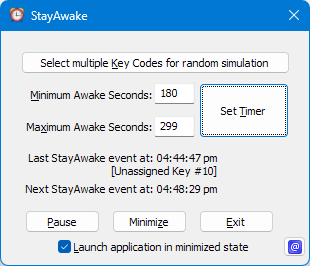
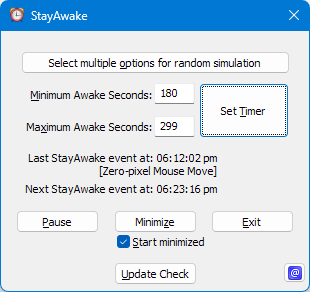
Updating images and documentation for v1.5.0.0 Release

diff --git a/README.md b/README.md
@@ -10,24 +10,37 @@
  &nbsp;&nbsp;&nbsp;&nbsp;&nbsp;
 <a title="OSSign - Code Signing for Open Source" href="https://www.ossign.org"><img style="width:100px; height:86px;" src="images/OSSign.png"/></a>
 
+![StayAwake UI](images/StayAwakeApp.png) &nbsp; ![Input Options UI](images/StayAwakeInputOptions.png)
 
-[Current Version: 1.3.0.0](https://github.com/shriprem/StayAwake/blob/main/VersionHistory.md)
+[Current Version: 1.5.0.0](VersionHistory.md)
 
 StayAwake is a simple utility that enables you to maintain an _Active_ status on Microsoft Teams (and perhaps other messaging applications such as Slack and Zoom). StayAwake also prevents screen saver activation, screen blanking, and Windows session lockouts.
 
+## Features at a glance
+* Randomized simulation with mouse or key inputs. Roster with a choice of 24 no/low side-effect keys and 2 invisible mouse moves.
+* Random interval simulation. Intervals within a specified range of seconds.
+* Helpful status information with timestamps of Last and Next simulations.
+* Minimization to System Tray.
+* Start Minimized option.
+* Manual Pause feature when needed.
+* Automatic Pause while Windows in locked state. Reduces disk activity and CPU usage. Conserves battery power.
+* Small, portable application. Runs with no installation or administrator privileges.
+* Digitally signed application executable file.
+* Update Check feature - Manual or automatic (opt-in).
+
 If you are using Microsoft Teams, you may have noticed that Teams automatically sets your status to _Away_ after a certain period of inactivity. This can be frustrating if you are still at your desk but perhaps on a business phone call _OR_ outlining a plan on paper _OR_ consulting some reference material.
 
-StayAwake can be minimized to the Windows System Tray, and will continue to run in the background until you click the _Exit_ button. StayAwake also has the option to automatically minimize to Windows System Tray upon launch. See: [Start Minimized](#start-minimized)
+StayAwake simulates a randomly selected input from a specified roster of jitter-free mouse moves and no/low side-effect keys. Additionally, these simulations are done at random intervals within a specified range of seconds. This is a safe and non-intrusive way to keep your Microsoft Teams status _Active_. The combined randomness of inputs and time intervals eliminates predictable patterns, making StayAwake simulations seem organic.
 
-StayAwake does its job by simulating key presses of unused or low side-effect buttons at specified time intervals. This is a safe and non-intrusive way to keep your Microsoft Teams status _Active_.
+StayAwake can be minimized to the Windows System Tray, and will continue to run in the background until you click the _Exit_ button. StayAwake also has the option to automatically minimize to Windows System Tray upon launch. See: [Start Minimized](#start-minimized)
 
 StayAwake executable is now digitally signed by the kind folks at [OSSign](https://www.ossign.org). Thanks to the code signing, there is *NO* need for users to override the Windows Defender Smartscreen or [unblock the executable file](https://stackoverflow.com/questions/48946680/how-to-avoid-the-windows-defender-smartscreen-prevented-an-unrecognized-app-fro) to launch StayAwake.
 
 ## User Interface
 ![StayAwake UI](images/StayAwakeApp.png)
 
-#### Select multiple Key Codes for random simulation
-StayAwake can randomly pick any of the 12 key codes during each simulation. Users can specify _at least_ one OR a select few OR all of the 12 key codes to be included in the simulation roster. See the [Select multiple Key Codes](https://github.com/shriprem/StayAwake/blob/Version2.0/InputOptions.md) section below for more info.
+#### Select multiple options for random simulation
+StayAwake can randomly pick any of the 26 inputs (24 key codes & 2 mouse moves) during each simulation. Users can specify _at least_ one OR a select few OR all of the 26 inputs to be included in the simulation roster. See [Input Simulation Options](InputOptions.md) for more info.
 
 #### Minimum Awake Seconds
 This field allows you to specify the minimum interval between key simulations. The initial default value for this is 240 seconds (_i.e._, 4 minutes). However, you can change this to any value between 10 and 9990 seconds. Your new value will be saved and used the next time you run StayAwake.
@@ -35,12 +48,14 @@ This field allows you to specify the minimum interval between key simulations. T
 #### Maximum Awake Seconds
 This field allows you to specify the maximum interval between key simulations. The initial default value for this is 240 seconds (_i.e._, 4 minutes). However, you can change this to any value between 10 and 9990 seconds. Your new value will be saved and used the next time you run StayAwake.
 
+**Tip**: If Microsoft Teams is changing your status to _Away_ after 5 minutes (i.e., 300 seconds) of inactivity, consider setting the *Minimum Awake Seconds* to around 200 and the *Maximum Awake Seconds* to 310 or 320 or even 330 (i.e., a little over 300). This weighted range will cause your Teams status to briefly drift out of _Active_ status once in a while -- a more normal user behavior from your coworkers' perspective than a solid green status through an entire work day.
+
 #### Set Timer button
 After changing the value for either *Minimum Awake Seconds* or *Maximum Awake Seconds*, click this button to apply the new setting. Clicking this button will also immediately invoke an Awake event.
 
 After every Awake event, a random number of seconds (between the specified minimum and maximum seconds) will be picked to run the next Awake event.
 
-The clock times of the last and next Awake events will be displayed and continually refreshed on the StayAwake window. The randomly picked key code used for the last Awake will also be displayed below the last Awake time.
+The clock times of the last and next Awake events will be displayed and continually refreshed on the StayAwake window. The randomly picked input option used for the last Awake will also be displayed below the last Awake time.
 
 #### Pause button
 Click this button to pause StayAwake Key simulations.
@@ -55,6 +70,8 @@ As seen in the clip above, clicking the *Pause* button will also have these effe
    ![StayAwake UI](images/StayAwakePausedLaunch.png)
 
 
+4. On a related note, if the Windows system has been manually locked, StayAwake will pause key and mouse simulations until the system gets unlocked again. This will help reduce disk activity and CPU usage (thus conserving battery power on laptops) while the system is in locked state.
+
 #### Minimize button
 Click this button to minimize StayAwake to the Windows System Tray. See the [SystemTray Icon](#system-tray-icon) section below for more info.
 
@@ -62,9 +79,21 @@ Click this button to minimize StayAwake to the Windows System Tray. See the [Sys
 Click this button to exit StayAwake.
 
 #### Start Minimized
-Check the _Launch application in minimized state_ box to have StayAwake automatically minimize to System Tray upon launch.
+Check the _Start minimized_ box to have StayAwake automatically minimize to System Tray upon launch.
 
 When the _Start Minimized_ option is enabled, StayAwake will launch and minimize immediately only on the first launch attempt. If StayAwake is still running in a minimized state, trying to launch the application again will restore the StayAwake dialog from the minimized state. This is by design when `MultipleInstancesAllowed=N`. See under: [Configuration File Details](#configuration-file-details)
+
+#### Update Check button
+Click this button to manually check if a newer version of StayAwake is available. When clicked, the _Check for Updates_ dialog will popup.
+
+
+![StayAwake UI](images/CheckForUpdates.png)
+
+The _Check for Updates_ popup will display the Installed and Latest Version numbers.
+
+If a newer version is available, the popup will display a clickable link that redirects to the [StayAwake - Latest Release](https://github.com/shriprem/StayAwake/releases/latest) page.
+
+In this popup, you can also enable the _Check for updates when StayAwake starts_ option to have StayAwake automatically check for a newer version every time it is launched. This is an opt-in feature that is unchecked by default.
 
 
 ### System Tray Icon
@@ -80,7 +109,9 @@ When you minimize StayAwake, it will be represented by the System Tray icon show
 ## Configuration File Details
 StayAwake saves its configuration in a file named `StayAwake.ini`. This file is co-located in the `StayAwake.exe` application file folder. These key-value pairs are stored in this file:
 
-1. `SelectedKeyCodes`: This key stores a string of 12 characters -- each character indicating if a key code in the [Select multiple Key Codes](https://github.com/shriprem/StayAwake/blob/Version2.0/InputOptions.md) popup is selected or not with either a `1` or `0`, respectively.
+1. `SelectedKeyCodes`: This key stores a string of 26 characters -- each character indicating if a key code or mouse move in the [Input Simulation Options](InputOptions.md) popup is enabled or not with either a `1` or `0`, respectively.
+
+   If an invalid value is detected for this key, the default value of `00111111111111111111111111` (i.e., enabling of all inputs except *Scroll Lock cycle* and *Volume Down & Up*) will be used instead.
 
 2. `MinimumIntervalInSeconds`: This key stores the minimum number of seconds between each StayAwake Key simulation as specified in the [Minimum Awake Seconds](#minimum-awake-seconds) field.
 
@@ -92,9 +123,11 @@ StayAwake saves its configuration in a file named `StayAwake.ini`. This file is 
 
 4. `AwakePaused`: This key stores a flag value (_Y_ or _N_) to indicate if StayAwake is in paused state.
 
-5.  `StartMinimized`: This key stores a flag value (_Y_ or _N_) to indicate if StayAwake will automatically minimize to System Tray upon launch. See: [Start Minimized](#start-minimized)
+5. `StartMinimized`: This key stores a flag value (_Y_ or _N_) to indicate if StayAwake will automatically minimize to System Tray upon launch. See: [Start Minimized](#start-minimized)
 
-6. `MultipleInstancesAllowed`: This key stores a flag value (_Y_ or _N_) to indicate whether multiple instances of StayAwake are allowed to run simultaneously. The default value is _N_ (i.e., multiple instances are not allowed). Any value that is not _Y_ will be interpreted as _N_.
+6. `StartCheckUpdates`: This key stores a flag value (_Y_ or _N_) to indicate if StayAwake will automatically check for a newer version every time it is launched. See: [Update Check button](#update-check-button)
+
+7. `MultipleInstancesAllowed`: This key stores a flag value (_Y_ or _N_) to indicate whether multiple instances of StayAwake are allowed to run simultaneously. The default value is _N_ (i.e., multiple instances are not allowed). Any value that is not _Y_ will be interpreted as _N_.
 
 
 ## Alternatives
@@ -115,6 +148,10 @@ However, if you are looking for a way to keep your Microsoft Teams status _Activ
 ## Installation
 
 StayAwake is a portable application and does NOT require installation with administrator privileges. Simply download the latest release from the [Releases](https://github.com/shriprem/StayAwake/releases) page and unzip the contents to a folder of your choice. Run the `StayAwake.exe` application file to start the utility.
+
+If you like StayAwake, please star this repo. Thank you for your appreciation.
+
+If you would like to support its development, you can buy me a coffee by clicking the button below. Thank you for your support!
 
 
 <a href='https://ko-fi.com/S6S417WICS' target='_blank'><img height='36' style='border:0px;height:36px;' src='https://storage.ko-fi.com/cdn/kofi5.png?v=6' border='0' alt='Buy Me a Coffee at ko-fi.com' /></a>

diff --git a/VersionHistory.md b/VersionHistory.md
@@ -1,5 +1,23 @@
 ## Version History
 
+### Version 1.5.0.0 [October 12, 2026]
+
+1. Two mouse simulation options (Zero-pixel Mouse Move and One-pixel Mouse Jiggle) have been added to the [Input Simulation Options](InputOptions.md) roster.
+
+2. 12 new simulation options for Extended Function Keys: F13 to F24 have been added to the [Input Simulation Options](InputOptions.md) roster.
+
+3. StayAwake will now simulate events using the `SendInput` API instead of the deprecated `keybd_event` API. `SendInput` API allows batching of multiple key or mouse events in a single atomic call to the Windows OS, thus yielding jitter-free key or mouse simulations.
+
+4. Volume Up & Down simulation will now preserve the muted sound state. Prior to each Volume Up & Down simulation event, StayAwake will detect if the sound is in a muted state or not. If the sound is found muted, Volume Mute key will also be added after the Volume Down & Up keys in the `SendInput` API call.
+
+5. If the Windows system has been manually locked, StayAwake will now suppress key and mouse simulations until the system gets unlocked again. This will help reduce disk activity and CPU usage (thus conserving battery power on laptops) while the system is in locked state.
+
+6. Update Check button has been added so that users can manually check if a newer version of StayAwake is available. Additionally, an opt-in feature is also being offered to automatically check for a newer version every time StayAwake is started.
+
+**Release:** [1.5.0.0 Release](https://github.com/shriprem/StayAwake/releases/tag/v1.5.0.0)
+
+---
+
 ### Version 1.3.0.0 [September 21, 2026]
 
 1. StayAwake will use a random pick from a roster of user-specified key codes for each Awake event. See enhancement request: [#15](https://github.com/shriprem/StayAwake/issues/15).
